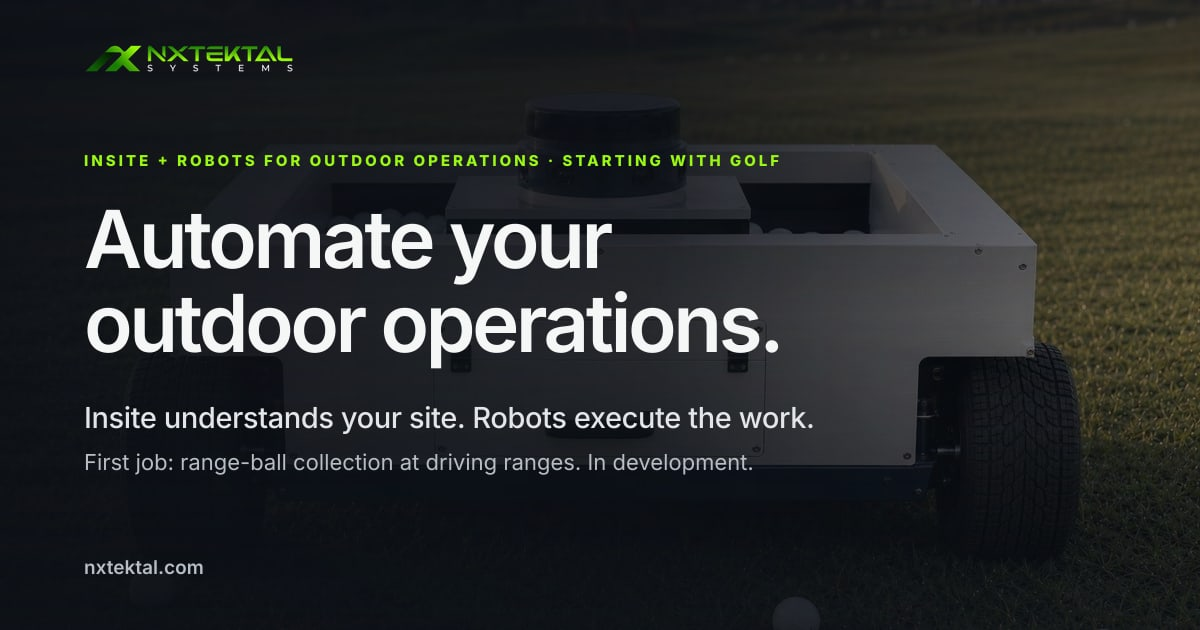
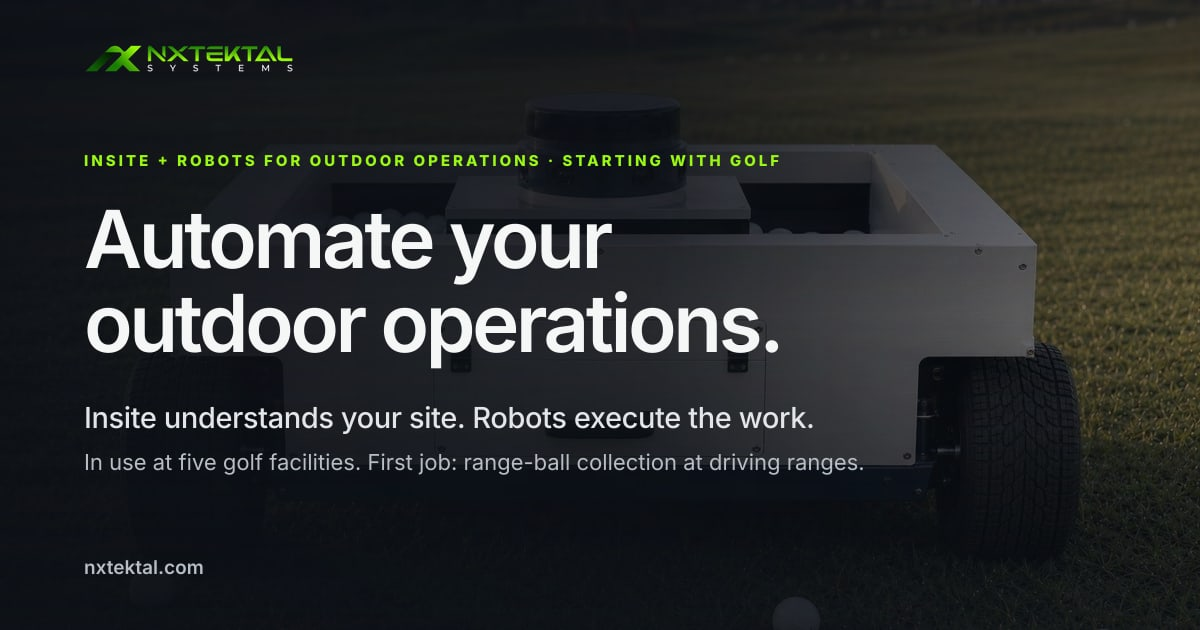
fix(site): state the field status the founders confirmed
The homepage lagged the facts in the YC application. Per the founders
(2026-11-02): Insite is in use at five golf facilities; the first-generation
remote-controlled collection robot is used by course staff; the
second-generation robot is in field testing at a golf course in Shanghai.

- FIELD_STATUS in lib/positioning.ts holds the three sentences with their
  source; the Insite status line, the first-job robot card and the site
  description read from it. The positioning sentence says "makes" instead
  of "is building".
- The film label reads "Concept visualization, not site footage" and the
  simulator frame is tagged "Range Operations Simulator — development view";
  both remain accurate descriptions of those two assets.
- Share image regenerated with the field status; README terminology and the
  content notes record the source and what is still to confirm (which model
  is each generation, the mower's status, the transfer mechanism, a real
  Insite screenshot).
- Tests pin the exact sentences and ban "not yet" / "in development." from
  returning to the homepage.

Verified: tsc, 64 Vitest tests, next build, Playwright at 1440/900/820/390
and reduced motion.

Claude-Session: https://claude.ai/code/session_01CMYfb2HydTiukxttWLT3jw

Changed region(s): [[0.0617, 0.7238, 0.7092, 0.754]]

diff --git a/lib/__tests__/homepage.test.ts b/lib/__tests__/homepage.test.ts
@@ -1,7 +1,7 @@
 import { describe, expect, it } from "vitest";
 
 import { CONTACT, CONTACT_LABEL, FOOTER_TAGLINE, GOLF, HERO, INSITE, NAV_ITEMS, ROBOTS, SOFTWARE_NAME, robotCards } from "../homepage";
-import { FIRST_JOB_SENTENCE, POSITIONING_SENTENCE, SITE } from "../positioning";
+import { FIELD_STATUS, FIRST_JOB_SENTENCE, POSITIONING_SENTENCE, SITE } from "../positioning";
 import { PRODUCTS, PRODUCTS_ROUTE } from "../products";
 import { agentSimulatorDemo, heroMasterFrame } from "../visualAssets";
 
@@ -54,13 +54,13 @@ describe("homepage copy", () => {
     expect(GOLF.heading).toBe("Starting with golf facilities.");
     expect(GOLF.body).toContain("range-ball collection");
     expect(GOLF.body).toContain("existing washer");
-    expect(GOLF.filmLabel).toContain("Concept visualization, not footage of a deployed system");
+    expect(GOLF.filmLabel).toContain("Concept visualization, not site footage");
     expect(GOLF.filmLabel).toContain("transfer mechanism shown is under development");
     expect(heroMasterFrame.alt.startsWith("Concept visualization")).toBe(true);
     expect(heroMasterFrame.alt).toContain(SOFTWARE_NAME);
   });
 
-  it("Insite is the software's name; understanding comes first, then judgement and follow-through; its stage is simulation only", () => {
+  it("Insite is the software's name; understanding comes first, then judgement and follow-through; its status is the founders' field fact", () => {
     expect(SOFTWARE_NAME).toBe("Insite");
     expect(INSITE.heading).toBe("Insite understands your site.");
     expect(INSITE.values.map((v) => v.title)).toEqual([
@@ -68,19 +68,20 @@ describe("homepage copy", () => {
       "Know which work needs attention first.",
       "Follow progress, exceptions, and results.",
     ]);
-    expect(INSITE.status).toContain("Range Operations Simulator today");
-    expect(INSITE.status).toContain("not yet connected to a customer site");
-    expect(agentSimulatorDemo.truthLabel).toBe("Simulation results — not live facility data.");
+    expect(INSITE.status).toBe(FIELD_STATUS.insite);
+    expect(FIELD_STATUS.insite).toBe("Insite is in use at five golf facilities.");
+    expect(agentSimulatorDemo.truthLabel).toBe("Range Operations Simulator — development view");
     expect(agentSimulatorDemo.alt).toContain(SOFTWARE_NAME);
   });
 
-  it("each robot card maps to a registered product, with a status from the approved vocabulary and no deployment claim", () => {
+  it("each robot card maps to a registered product, with the founders' field status and nothing beyond it", () => {
     const cards = robotCards();
     expect(cards.map((c) => c.route)).toEqual(PRODUCTS.map((p) => p.route));
     expect(cards.map((c) => c.stage)).toEqual(["First job", "Next job"]);
     expect(cards[0].product.model).toBe("CE82A");
-    expect(cards[0].status).toContain("In development");
-    expect(cards[0].status).toContain("Not yet running at a customer facility");
+    expect(cards[0].status).toBe("First generation, remote-controlled, in use by course staff. Second generation in field testing at a golf course in Shanghai.");
+    expect(FIELD_STATUS.firstGeneration).toBe("The first-generation remote-controlled collection robot is used by course staff.");
+    expect(FIELD_STATUS.secondGeneration).toBe("The second-generation robot is in field testing at a golf course in Shanghai.");
     expect(cards[1].product.model).toBe("ME74A");
     expect(cards[1].status).toContain("Next to validate");
     expect(cards[1].status).toContain("Not started");
@@ -108,12 +109,20 @@ describe("homepage copy", () => {
 
   it("the positioning sentence names Insite and keeps the first job", () => {
     expect(POSITIONING_SENTENCE).toContain("Insite");
+    expect(POSITIONING_SENTENCE).not.toContain("is building");
     expect(POSITIONING_SENTENCE).toContain("starting with golf facilities");
     expect(FIRST_JOB_SENTENCE).toContain("existing washer");
   });
 
-  it("never says Site Brain, names no maker, and claims no deployment, learning, or chosen mechanism", () => {
+  it("never says Site Brain, names no maker, and claims nothing beyond the founders' field facts", () => {
     for (const term of [
+      "not yet",
+      "in development.",
+      "not live facility data",
+      "site names",
+      "fleet",
+      "nationwide",
+      "fully autonomous",
       "site brain",
       "robotic workforce",
       "intelligence layer",

diff --git a/lib/homepage.ts b/lib/homepage.ts
@@ -6,11 +6,14 @@
  *
  * "Insite" is the name of the software (formerly "Site Brain"). Insite is
  * advisory: it understands the site and helps the people running it decide;
- * the robots carry out the work. Nothing here claims a connected site, a
- * deployed machine, or a completed integration.
+ * the robots carry out the work. Field status comes from FIELD_STATUS in
+ * lib/positioning.ts (founders, 2026-11-02): Insite in use at five golf
+ * facilities, the first-generation collection robot used by course staff,
+ * the second generation in field testing in Shanghai. The page states those
+ * facts and nothing more.
  */
 
-import { SITE } from "./positioning";
+import { FIELD_STATUS, SITE } from "./positioning";
 import { PRODUCTS, PRODUCTS_ROUTE } from "./products";
 import type { ProductData } from "./products/types";
 
@@ -39,9 +42,9 @@ export const GOLF = {
   heading: "Starting with golf facilities.",
   body:
     "We start with range-ball collection at driving ranges: a robot gathers the balls across the outfield and brings them back for transfer into the range’s existing washer.",
-  /** The short label under the film: a concept visualization that also shows a transfer mechanism under development. */
+  /** The short label under the film: a concept visualization, not site footage, that also shows a transfer mechanism under development. */
   filmLabel:
-    "Concept visualization, not footage of a deployed system. The transfer mechanism shown is under development.",
+    "Concept visualization, not site footage. The transfer mechanism shown is under development.",
 } as const;
 
 /** Block 3 — Insite: understanding first, then judgement, coordination, and follow-through. No architecture. */
@@ -64,11 +67,12 @@ export const INSITE = {
       body: "Runs in progress, exceptions such as a late run or an unconfirmed transfer, and completed work are recorded as they happen.",
     },
   ],
-  status: "Insite runs in the Range Operations Simulator today. It is not yet connected to a customer site.",
+  status: FIELD_STATUS.insite,
 } as const;
 
-/** Block 4 — the robots. Name, job, and a short development status per machine; details on the product pages.
- * The neutral inquiry line stays on the product pages (contact block and list note), not here. */
+/** Block 4 — the robots. Name, job, and a short field status per machine; details on the product pages.
+ * The first-job card covers both generations of the collection robot (FIELD_STATUS); the mower keeps its
+ * earlier status until the founders update it. The neutral inquiry line stays on the product pages. */
 export type RobotCardCopy = { route: string; stage: string; status: string };
 
 export const ROBOTS = {
@@ -77,7 +81,7 @@ export const ROBOTS = {
   body: "Each robot takes one job on the site. Insite works out what needs doing; the robot carries it out.",
   allLabel: "All products",
   cards: [
-    { route: "/products/ce82a", stage: "First job", status: "In development. Not yet running at a customer facility." },
+    { route: "/products/ce82a", stage: "First job", status: "First generation, remote-controlled, in use by course staff. Second generation in field testing at a golf course in Shanghai." },
     { route: "/products/me74a", stage: "Next job", status: "Next to validate. Not started." },
   ] as RobotCardCopy[],
 };

diff --git a/lib/positioning.ts b/lib/positioning.ts
@@ -7,7 +7,18 @@
 
 /** The positioning sentence: the promise and the two parts that deliver it. "Insite" is the software's name (formerly "Site Brain"). */
 export const POSITIONING_SENTENCE =
-  "NXTektal is building Insite, the software that understands an outdoor site, and the robots that execute the work, starting with golf facilities.";
+  "NXTektal makes Insite, the software that understands an outdoor site, and the robots that execute the work, starting with golf facilities.";
+
+/**
+ * Field status, as stated by the founders on 2026-11-02 (the same facts as
+ * in the YC application). The site states these and nothing more: no site
+ * names, counts beyond "five", results, or integration claims.
+ */
+export const FIELD_STATUS = {
+  insite: "Insite is in use at five golf facilities.",
+  firstGeneration: "The first-generation remote-controlled collection robot is used by course staff.",
+  secondGeneration: "The second-generation robot is in field testing at a golf course in Shanghai.",
+} as const;
 
 /** The first job, stated as scope — handoff into existing equipment, nothing more. */
 export const FIRST_JOB_SENTENCE =
@@ -19,7 +30,7 @@ export const SHARE_IMAGE_ALT =
   "NXTektal Systems — Insite understands your site; robots execute the work. Starting with golf facilities.";
 
 /** Full site description used for metadata, share text, and JSON-LD. */
-export const SITE_DESCRIPTION = `${POSITIONING_SENTENCE} ${FIRST_JOB_SENTENCE}`;
+export const SITE_DESCRIPTION = `${POSITIONING_SENTENCE} ${FIELD_STATUS.insite} ${FIRST_JOB_SENTENCE}`;
 
 /** The founders, for the Organization structured data (the homepage no longer carries a founders section). */
 export const FOUNDERS = [

diff --git a/lib/__tests__/positioning.test.ts b/lib/__tests__/positioning.test.ts
@@ -4,12 +4,12 @@ import manifest from "../../app/manifest";
 import { FIRST_JOB_SENTENCE, POSITIONING_SENTENCE, SHARE_IMAGE_ALT, SITE_DESCRIPTION, SITE_TITLE } from "../positioning";
 
 describe("positioning", () => {
-  it("states the approved positioning sentence: Insite understands the site, robots execute the work", () => {
+  it("states the approved positioning sentence: Insite understands the site, robots execute the work; the description carries the field status", () => {
     expect(POSITIONING_SENTENCE).toBe(
-      "NXTektal is building Insite, the software that understands an outdoor site, and the robots that execute the work, starting with golf facilities.",
+      "NXTektal makes Insite, the software that understands an outdoor site, and the robots that execute the work, starting with golf facilities.",
     );
     expect(SITE_DESCRIPTION).toBe(
-      "NXTektal is building Insite, the software that understands an outdoor site, and the robots that execute the work, starting with golf facilities. First job: range-ball collection with handoff into the range’s existing washer.",
+      "NXTektal makes Insite, the software that understands an outdoor site, and the robots that execute the work, starting with golf facilities. Insite is in use at five golf facilities. First job: range-ball collection with handoff into the range’s existing washer.",
     );
     expect(FIRST_JOB_SENTENCE.toLowerCase()).toContain("existing washer");
   });

diff --git a/lib/visualAssets.ts b/lib/visualAssets.ts
@@ -148,8 +148,8 @@ export const agentSimulatorDemo: AgentSimulatorDemo = {
     width: 1080,
     height: 1350,
   },
-  alt: "Insite in the NXTektal Range Operations Simulator: robot states, a dispatch decision, facility metrics, and operating results for a simulated demand-spike scenario.",
-  truthLabel: "Simulation results — not live facility data.",
+  alt: "Insite’s operating view in the NXTektal Range Operations Simulator: robot states, a dispatch decision, facility metrics, and results for a simulated demand-spike scenario.",
+  truthLabel: "Range Operations Simulator — development view",
 };
 
 // -----------------------------------------------------------------------

diff --git a/README.md b/README.md
@@ -20,7 +20,7 @@ The site follows the supplied NXTektal brand direction:
 - Inter-first typography
 - Dark technical surfaces, metallic details, restrained glass effects, and lime telemetry accents
 
-The facility film (the main visual of the golf block, `components/manifesto/FacilityFilm.tsx`) and its poster stills are derived from the 2026-08-11 AI-generated concept film (see `ATTRIBUTIONS.md`); the label under the frame reads "Concept visualization, not footage of a deployed system. The transfer mechanism shown is under development." The Insite system screen is the Range Operations Simulator poster with the in-frame tag "Simulation results — not live facility data." The homepage is dark throughout; the product pages are light. The social share card (`public/og-image.jpg`) uses real prototype photography with the homepage headline set over it.
+The facility film (the main visual of the golf block, `components/manifesto/FacilityFilm.tsx`) and its poster stills are derived from the 2026-08-11 AI-generated concept film (see `ATTRIBUTIONS.md`); the label under the frame reads "Concept visualization, not site footage. The transfer mechanism shown is under development." The Insite system screen is the Range Operations Simulator poster with the in-frame tag "Range Operations Simulator — development view" (replace it with a screenshot of Insite at a facility when the founders supply one). The homepage is dark throughout; the product pages are light. The social share card (`public/og-image.jpg`) uses real prototype photography with the homepage headline set over it.
 
 ## Run locally
 
@@ -40,7 +40,7 @@ npm start
 
 ## Next content edits
 
-1. Move each robot card's development status in `lib/homepage.ts` (`ROBOTS.cards`) as the first job progresses, and the Insite status line (`INSITE.status`) once Insite is connected to a site; the tests pin the vocabulary.
+1. Field status lives in `FIELD_STATUS` (`lib/positioning.ts`) and feeds the Insite status line, the first-job robot card and the site description; update it there, with the date and source, as the founders confirm new facts (the ME74A card keeps its own status in `ROBOTS.cards`). The tests pin the exact sentences.
 2. Replace the simulator poster in the Insite block with a product screen of Insite when one exists, keeping an honest in-frame label (`agentSimulatorDemo` in `lib/visualAssets.ts`).
 3. Replace the concept film with real footage once a machine runs at a facility, and drop the concept label only then.
 4. Re-export the social-sharing image (`public/og-image.jpg`, 1200×630) whenever the headline changes, and ask the social platforms to re-scrape after deploy.
@@ -51,8 +51,8 @@ The homepage (redesigned 2026-10-22 after the minimal, YC-style references the f
 
 1. The promise — "Automate your outdoor operations." / "Insite understands your site. Robots execute the work." Text only, with whitespace; the header keeps the logo, four nav items (Golf, Insite, Robots, Products) and one Contact button.
 2. Golf — "Starting with golf facilities.", one sentence on the first job (range-ball collection, handoff into the range's existing washer), and the facility film as the main visual with its concept label under the frame.
-3. Insite — the software's name (formerly "Site Brain"). One system screen (the Range Operations Simulator poster, tagged in the frame as simulation; `agentSimulatorDemo.ready` gates it, as `hasMasterFrame()` gates the film) and three things it gives the people running the site: see what is happening; know which work needs attention first; follow progress, exceptions, and results. Understanding first, then judgement, coordination and follow-through; no architecture. One status line: runs in the simulator, not yet connected to a customer site.
-4. Robots — "Robots do the work Insite hands over." Two compact cards from the product registry (name, job, a short development status, a link to the product page), then a link to the products list. The neutral inquiry line stays on the product pages.
+3. Insite — the software's name (formerly "Site Brain"). One system screen (the Range Operations Simulator poster, tagged in the frame as simulation; `agentSimulatorDemo.ready` gates it, as `hasMasterFrame()` gates the film) and three things it gives the people running the site: see what is happening; know which work needs attention first; follow progress, exceptions, and results. Understanding first, then judgement, coordination and follow-through; no architecture. One status line from `FIELD_STATUS`: Insite is in use at five golf facilities.
+4. Robots — "Robots do the work Insite hands over." Two compact cards from the product registry (name, job, a short field status, a link to the product page), then a link to the products list. The first-job card states both generations of the collection robot (first generation remote-controlled and used by course staff; second generation in field testing at a golf course in Shanghai). The neutral inquiry line stays on the product pages.
 5. Contact — one heading, one sentence, the mailto button and the address as text. Then the footer.
 
 Block heights follow their content; nothing is a full-screen slide. The sections that left the homepage on 2026-10-22 (customer-discovery strip, the recurring-work list, the workflow story, equipment integration, the operating loop, software-and-machines, why golf, how it scales, the quick ROI calculator, progress tracks, pilot steps, founders) remain in git history before that date; `/roi-calculator` stays live but is no longer linked from the homepage.
@@ -60,9 +60,9 @@ Block heights follow their content; nothing is a full-screen slide. The sections
 ## Terminology
 
 - Company positioning: **Automate your outdoor operations. Insite understands your site. Robots execute the work.** The metadata sentence keeps the "is building" framing: "NXTektal is building Insite, the software that understands an outdoor site, and the robots that execute the work, starting with golf facilities." Do not reintroduce "the operating system behind them", "intelligence layer", "execution layer", "operating layer", or "site brain and robotic workforce".
-- **Insite** is the software's name since 2026-10-22; "Site Brain" is retired and the tests ban it. Insite is advisory: it understands the site and helps the people running it decide what to do next; it never claims to command robots itself, to be connected to a site, or to learn on its own. Its status line is "runs in the Range Operations Simulator today; not yet connected to a customer site".
+- **Insite** is the software's name since 2026-10-22; "Site Brain" is retired and the tests ban it. Insite is advisory: it understands the site and helps the people running it decide what to do next; it never claims to command robots itself or to learn on its own. Its status line is `FIELD_STATUS.insite`: "Insite is in use at five golf facilities."
 - The first job is **range-ball collection and handoff**. Keep the development scope (collect, return, handoff, transfer confirmation, exceptions) separate from the full-supply vision (wash, dispense, tee-line supply), which is not claimed until a pilot measures it.
-- Robot statuses on the homepage use one vocabulary: "In development. Not yet running at a customer facility." for the first job and "Next to validate. Not started." for the next; never present either machine as deployed, integrated, or on order (and never assert the opposite).
+- Field status (founders, 2026-11-02, the same facts as in the YC application): Insite is in use at five golf facilities; the first-generation remote-controlled collection robot is used by course staff; the second-generation robot is in field testing at a golf course in Shanghai. State exactly these, nowhere more than once per block, and nothing beyond them: no facility names, no results or figures, no integration or autonomy claims, no "on order". The mower keeps "Next to validate. Not started." until the founders say otherwise.
 - Handoff wording is mechanism-neutral: say "transfer into the range's existing washer", "collected balls" or "collected load", never "hopper" or "basket"; never name a station-side arm, removable basket, robot-side lift, chute, or conveyor as the chosen mechanism; never write "handoff unit". The film shows one option, so its label says the transfer mechanism is under development.
 - Media labels: simulation, concept render, concept visualization, and real photography are always distinguished in the frame or caption; concept renders are never deployment evidence. The homepage's two media slots are registered in `lib/visualAssets.ts` (`heroMasterFrame`, `agentSimulatorDemo`); the retired workflow, handoff and build-evidence media stay under `public/visuals/phase2/` and `public/robot/`, unreferenced, for reuse.
 - The positioning sentence and site description live once in `lib/positioning.ts` and feed `app/layout.tsx`, `app/manifest.ts`, and the JSON-LD in `app/page.tsx` (which also takes the founders' names and roles from there); edit them there.
@@ -73,7 +73,7 @@ Block heights follow their content; nothing is a full-screen slide. The sections
 
 - `/products` lists the machines by job; each has its own detail page rendered by the shared template in `components/products/ProductPage.tsx` (overview with the full product image, features, gallery with lightbox, grouped specifications, the other product, contact). The nav "Products" entry on the homepage and on product pages links to the list.
 - The product pages present **functions and specifications only** (owner's direction, 2026-10-20): no maker attribution ("manufactured by …"), no co-development or brand-relationship copy, no commercial status in the hero. The maker is recorded in `ATTRIBUTIONS.md` and in each data module's `brand` field, which is never rendered. The neutral inquiry line ("software integration scope, site fit and supply arrangements are confirmed with NXTektal") lives in the contact block and the list note, nowhere else.
-- `/products/ce82a` — the CE82A robotic ball collector. `/products/me74a` — the ME74A robotic fairway mower (a fairway mower, not a greens mower). Never present either as NXTektal-manufactured, as fully integrated, or as deployed/on order — and never assert the opposite either, since neither has been confirmed.
+- `/products/ce82a` — the CE82A robotic ball collector. `/products/me74a` — the ME74A robotic fairway mower (a fairway mower, not a greens mower). Never present either as NXTektal-manufactured, as fully integrated, or as on order; the product pages carry no field status (that lives on the homepage, from `FIELD_STATUS`).
 - All copy, figures and captions live in `lib/products/<model>.ts` in the shared `ProductData` shape (`lib/products/types.ts`); `lib/products/index.ts` is the registry the list and the related-product block read. `lib/__tests__/ce82a.test.ts`, `me74a.test.ts` and `products.test.ts` pin the data boundaries: for the CE82A, 8,000 m²/h is area per hour, 25% is a gradient, 8 km/h is a maximum travel speed, 4.5 h is a rated figure, 48 V / 60 Ah is not expanded into a total, quick battery swap is not automatic recharging; for the ME74A, the 60% travel gradient and 44% mowing gradient stay separate, 9 km/h is a maximum travel speed, 8,000 m²/h and 60,000 m² per charge are rated figures, charging time is 4.5 h with the configuration to be confirmed, no kW/kWh total, no reel length, no round-the-clock claim, no charging-station / wireless-as-standard / warranty-provider decision, IP65 as marked, none of the literature's marketing percentages; for both, no price / stock / lead time / savings / certification / customer figures, no "photograph" (the images are renders), and no maker/brand wording. Add a later model by copying a module and registering it.
 - Images go in `public/products/<model>/` (CE82A: `ce82a-raised-angle.webp` 1537×1023, `ce82a-front.webp` 1538×1023, `ce82a-side-left.webp` and `ce82a-side-right.webp` 1536×1024, `ce82a-driving-range.webp` 1538×1022; ME74A: `me74a-raised-angle.webp` 1536×1024, `me74a-front.webp`, `me74a-side.webp` and `me74a-golf-course.webp` 1537×1023), all founders-supplied renders at 3:2, so both gallery stages are 3:2 via `galleryAspect`; the raised-angle view is each product's hero and card image, and each scene image is captioned "not an NXTektal customer deployment". `products.test.ts` asserts each file exists and that its WebP header matches the declared size; until a file is present the page renders a neutral "Product image to be added" panel in its place (checked at build time, so rebuild after adding images). Contain-fit images are never shown wider than their source.
 - The pages reuse `SiteHeader` (with `homeHref`, `ctaHref`, `ctaLabel` and `currentHref` for secondary pages; the nav items come from `NAV_ITEMS` in `lib/homepage.ts` with absolute anchors) and the shared `SiteFooter`. The homepage's robots block reads the same registry, so a new model appears there only when `ROBOTS.cards` in `lib/homepage.ts` lists it with a status.

diff --git a/CONTENT-NOTES.zh-CN.md b/CONTENT-NOTES.zh-CN.md
@@ -1,5 +1,25 @@
 # NXTektal Systems 网站交接说明
 
+## 2026-11-02 现场状态更新：与 YC 申请一致
+
+创始人指出官网状态落后于 YC 申请中的事实。本轮按创始人给出的三条事实更新（事实只写到这个程度，不加场地名称、数量以外的数字、结果或集成 / 自主能力的说法）：
+
+- Insite 已在五个球场使用 → `FIELD_STATUS.insite`："Insite is in use at five golf facilities."（首页 Insite 状态句、站点描述 metadata 共用）。
+- 第一代遥控捡球机器人已被球场员工使用；第二代机器人正在上海球场现场测试 → 首页机器人区块 CE82A 卡片状态："First generation, remote-controlled, in use by course staff. Second generation in field testing at a golf course in Shanghai."
+- 定位句由 "is building" 改为 "makes"；视频标签改为 "Concept visualization, not site footage. The transfer mechanism shown is under development."；仿真器画面的标注改为 "Range Operations Simulator — development view"（该图仍是仿真器画面，标注必须说明；换成现场 Insite 截图后即可去掉）。
+- 社交分享图副标题改为 "In use at five golf facilities. First job: range-ball collection at driving ranges."
+- README 用词规则同步；`lib/__tests__/homepage.test.ts` 与 `positioning.test.ts` 锁定上述句子，并禁止 "not yet" / "in development." 回到首页。
+
+待创始人确认（已按最合理的理解处理，若不符请指出）：
+
+1. 卡片把 CE82A 当作"第一代遥控捡球机器人"，并把第二代写在同一张卡片上；若第二代是另一型号或应单独展示，请提供名称、任务和一张图。
+2. ME74A 割草机器人状态仍为 "Next to validate. Not started."，YC 申请未提及；如有变化请告知。
+3. 视频标签中的"交接机构仍在开发中"沿用此前口径；若第二代机器人已解决交接，请告知以更新标签与影片 alt 文本。
+4. Insite 区块仍用仿真器画面；请提供一张现场 Insite 截图（桌面 1400×1000 左右，手机 1080×1350 可选），替换后不再需要仿真器标注。
+5. 产品页（CE82A / ME74A）未加现场状态，仍只讲功能与参数；如需在产品页也写，请说明。
+
+---
+
 ## 2026-10-22 首页极简改版：承诺 → 高尔夫 → Insite → 机器人 → 联系
 
 参考 runtime.si 与 synphony.co 的极简结构，首页改为五个随内容定高的区块（不再是一屏一个论点的长页）。全部首页文案集中在 `lib/homepage.ts`，由 `lib/__tests__/homepage.test.ts` 锁定用词。
